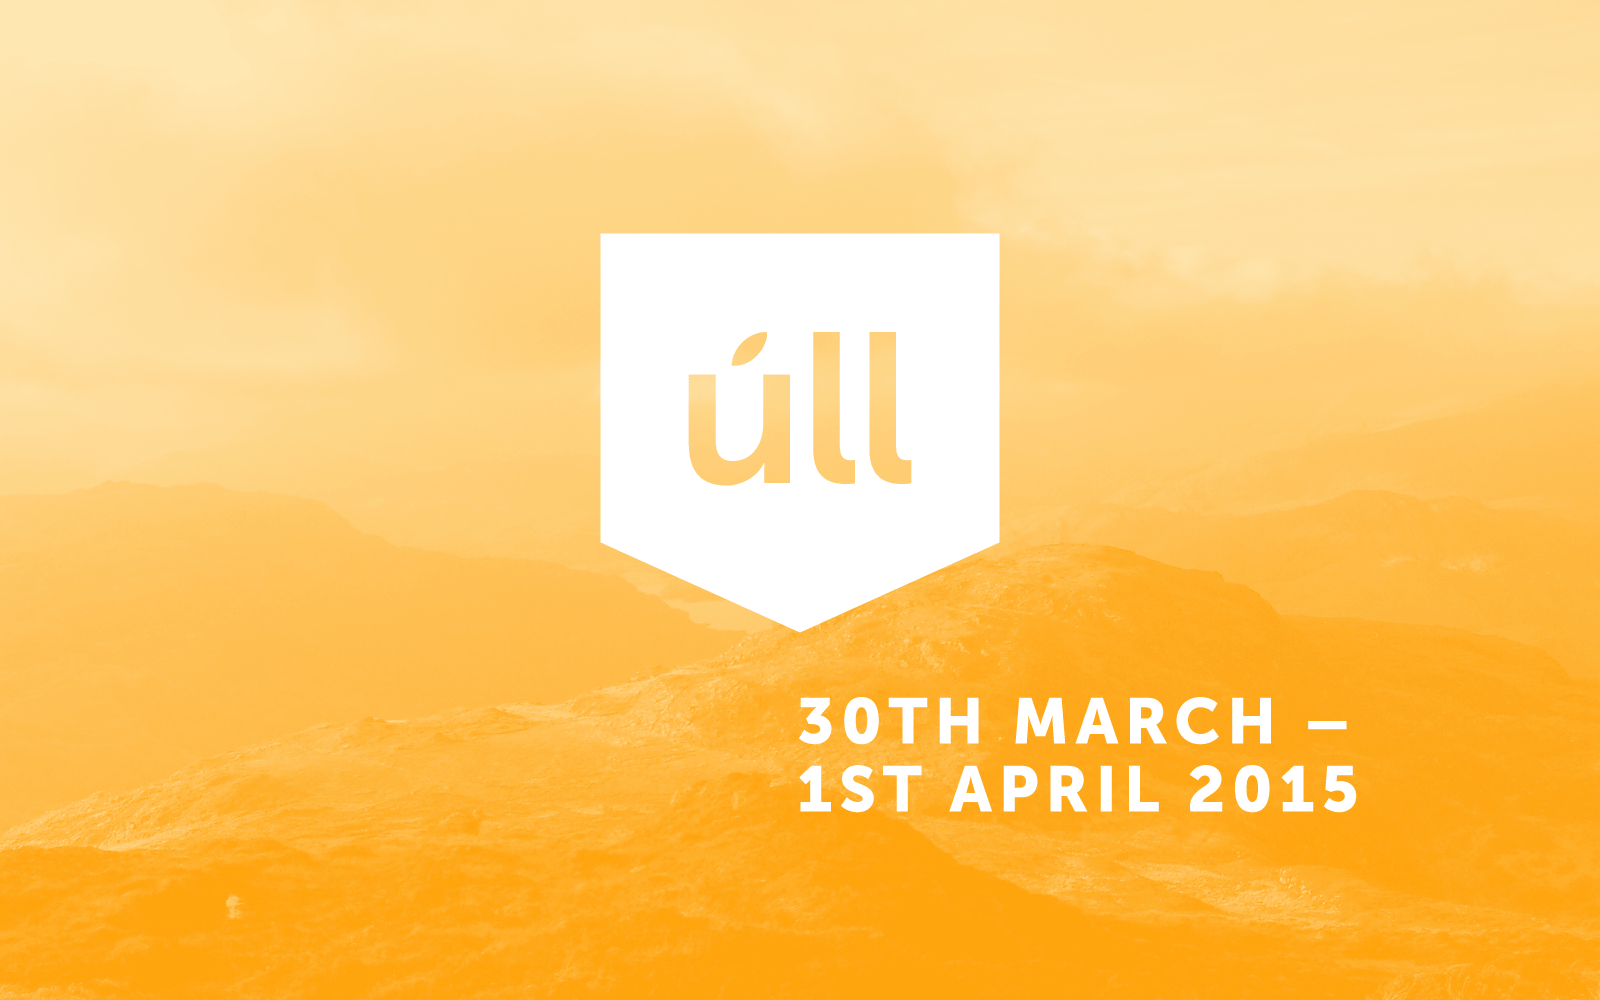
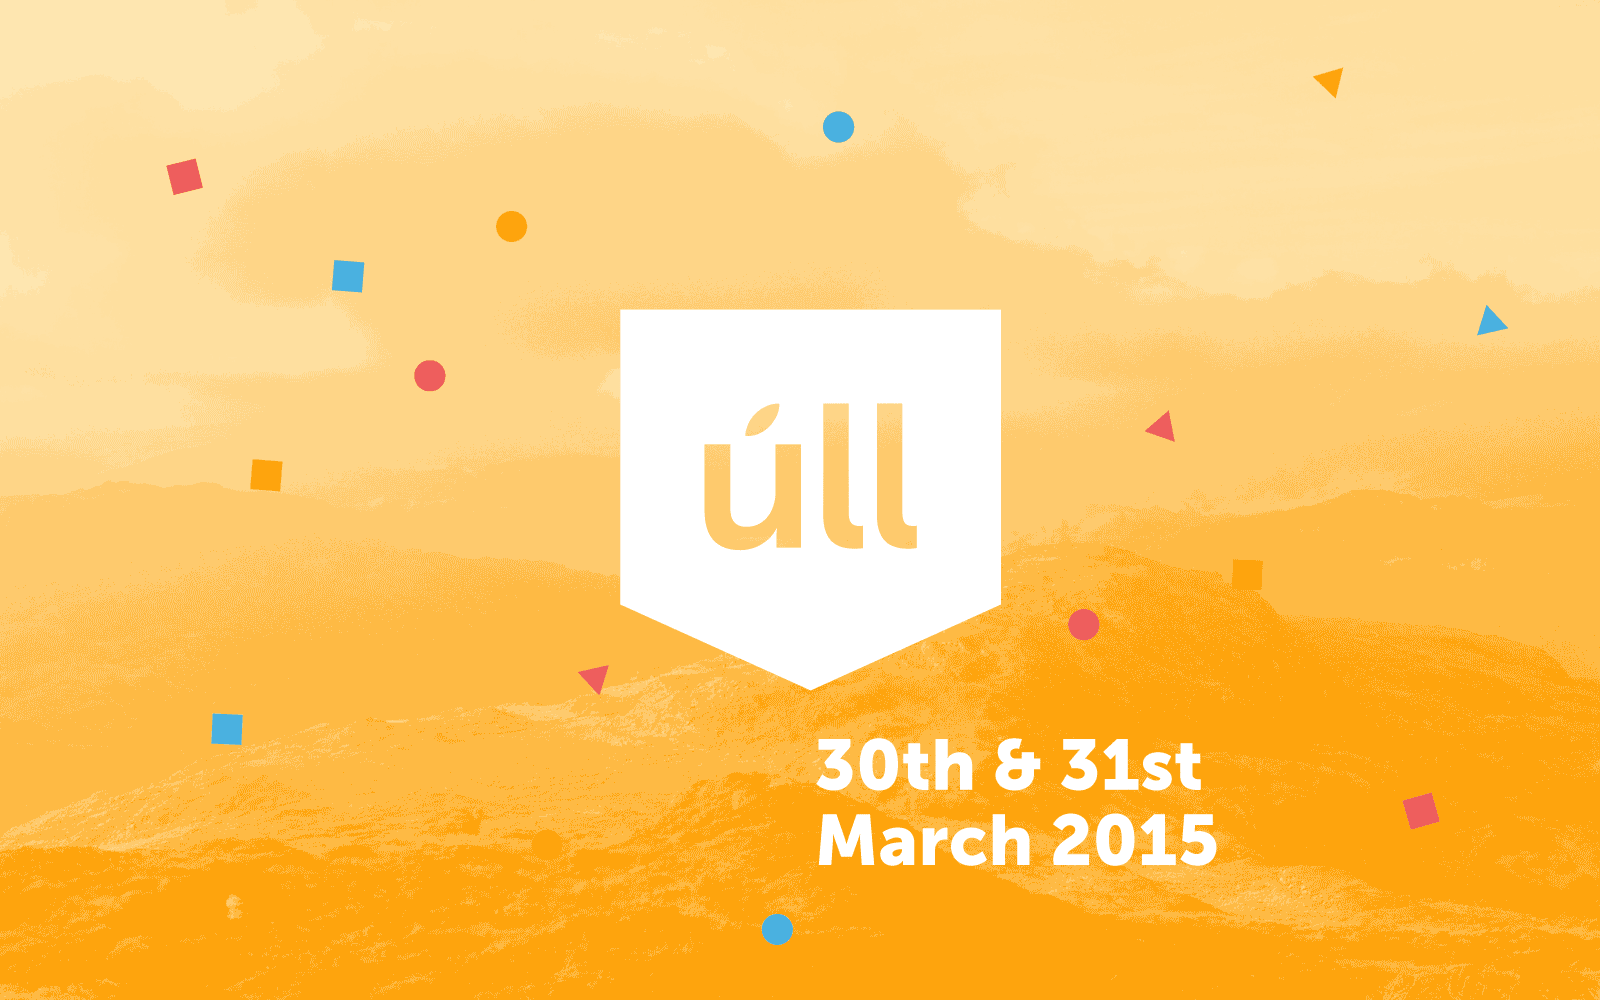
Updated Social Share Image (and link)

diff --git a/_includes/site/header.html b/_includes/site/header.html
@@ -18,7 +18,7 @@
 <meta name="twitter:description" content="A conference about great products.">
 <meta name="twitter:image:src" content="/images/site/social-image.png">
 
-<link rel="image_src" href="images/social-image.png" />
+<link rel="image_src" href="/images/site/social-image.png" />
 
 <meta property="og:site_name" content="Úll 2015"/>
 <meta property="og:title" content="Úll: March 30th & 31st 2015" />
